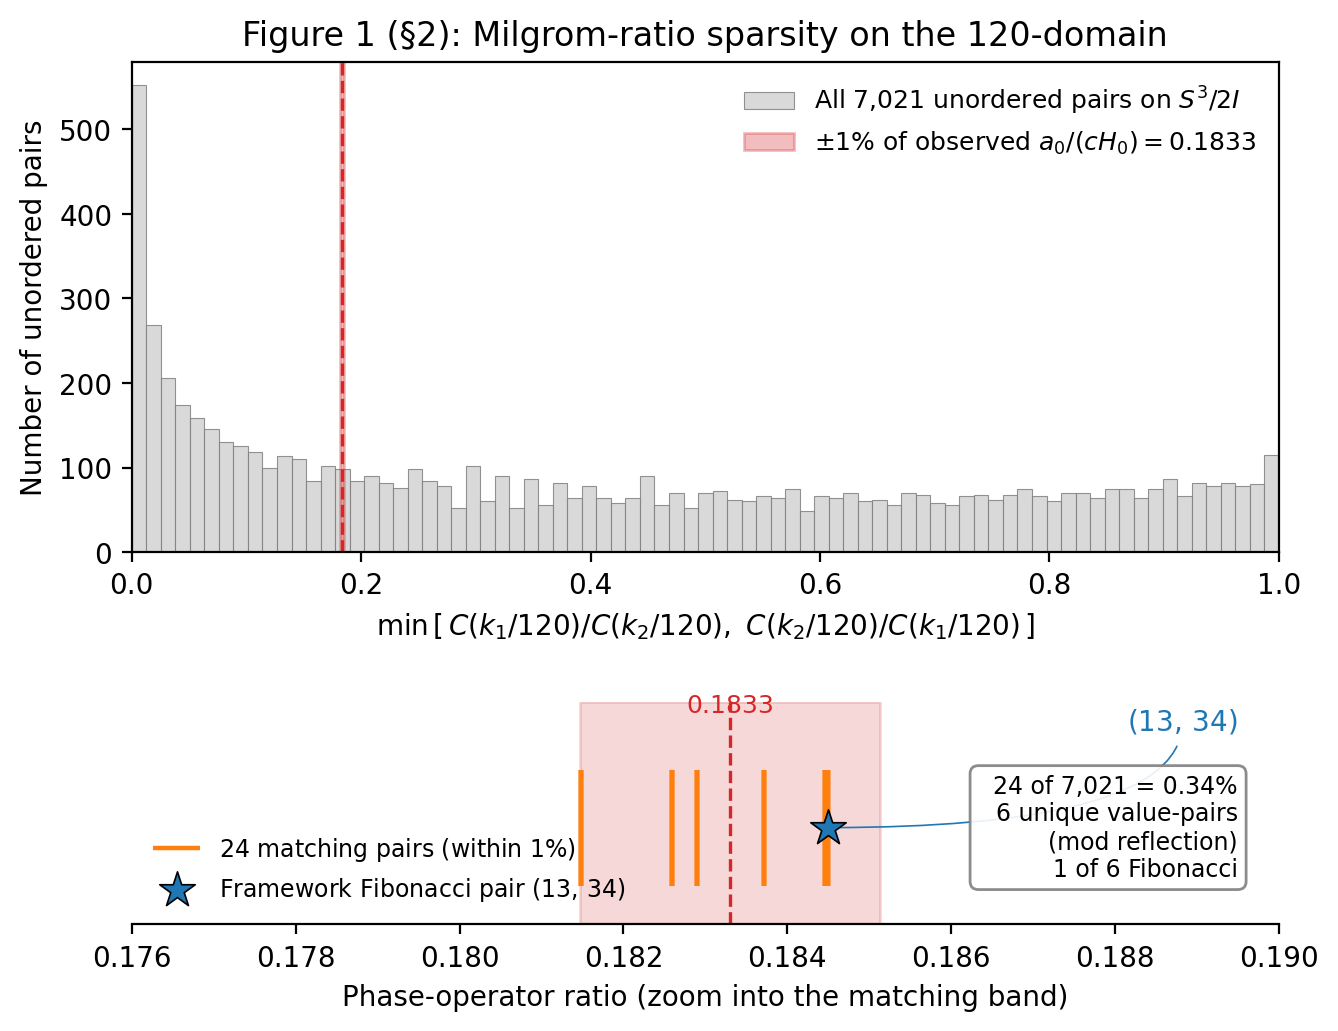
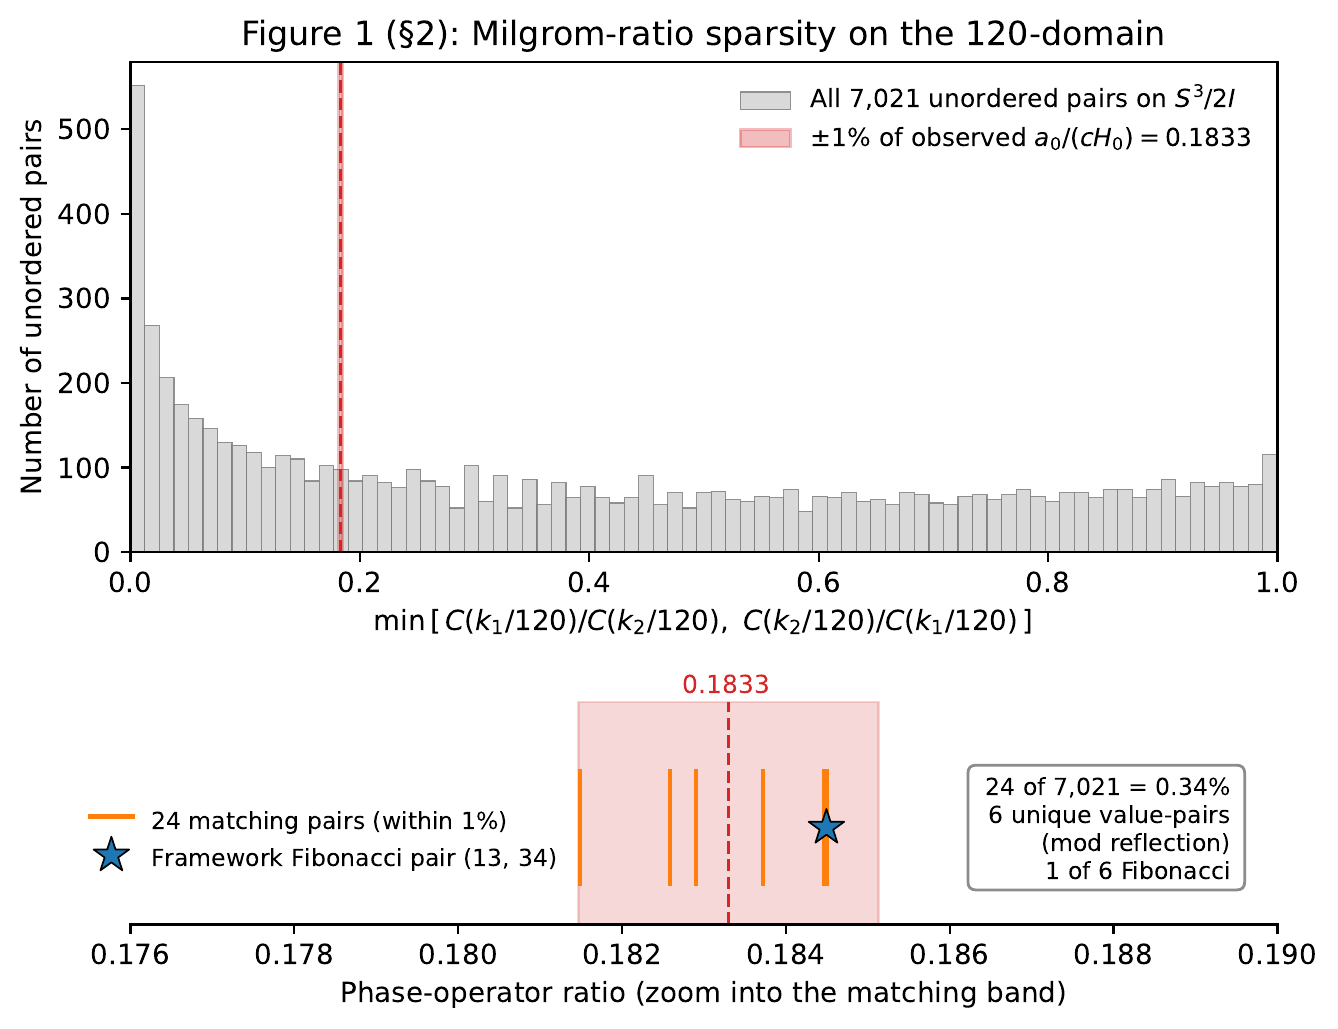
Swap Figure 1 to curated PDF; auto-generator preserved but not called
The user provided a manually-curated Figure 1 PDF (the (13, 34) tag
removed for layout cleanup, legend label retained). This is now the
canonical Figure 1 shipped in the repo.

  figures/figure1.pdf  -- curated PDF, replaces auto-generated version
  figures/figure1.png  -- 200 dpi render of the curated PDF via pdftoppm

scripts/make_figures.py:
  - figure1_sparsity() retained for reference and regeneration; the
    docstring now warns that calling it overwrites the curated PDF/PNG
  - main() drops Figure 1 from the build list so a default
    `python make_figures.py` run does not clobber the curated artifact
  - banner now reads "Figure 1 curated externally; skipped"; closing
    line reflects "auto-generated figures (2, 3, 4) pass self-checks"

scripts/README.md:
  - make_figures.py table row updated: "Generate Figures 2-4 from the
    analysis modules. Figure 1 is shipped as a curated PDF/PNG and
    not regenerated by default."

Figures 2-4 are unchanged; their auto-builders still run and pass
their in-script self-checks against paper-quoted values on every run.

diff --git a/scripts/make_figures.py b/scripts/make_figures.py
@@ -125,6 +125,14 @@ def _save(fig: plt.Figure, stem: str) -> Tuple[str, str]:
 def figure1_sparsity() -> Tuple[str, str]:
     """Figure 1 (§2): two-panel sparsity figure on the 120-domain.
 
+    NOTE: This auto-generator is kept for reference and regeneration but
+    is NOT called from main(). The shipped figures/figure1.{pdf,png} is
+    a curated artifact (the (13, 34) tag was removed for layout cleanup
+    while preserving the legend label and the rest of the figure
+    content). Calling this function will overwrite the curated PDF/PNG
+    with the auto version. Do that only when intentionally regenerating
+    from scratch.
+
     Top: histogram of all 7,021 unordered phase-operator ratios in [0, 1],
     with a vertical line at the observed Milgrom ratio 0.1833 and a
     shaded ±1% band marking the matching region.
@@ -491,8 +499,16 @@ def figure4_ubler_tension() -> Tuple[str, str]:
 def main() -> int:
     _ensure_figures_dir()
 
+    # Figure 1 (§2 sparsity) is curated externally and shipped as a
+    # static PDF/PNG in ../figures/figure1.{pdf,png}. The auto-generator
+    # `figure1_sparsity()` is preserved for reference / regeneration but
+    # is NOT called from main() so a default `python make_figures.py`
+    # run does not clobber the curated artifact. To regenerate the
+    # auto version, call `figure1_sparsity()` directly or pass --regen-1.
+    #
+    # Figures 2, 3, 4 are auto-generated and verified against paper
+    # values on every run.
     builders = [
-        ("Figure 1 (§2 sparsity)",                figure1_sparsity),
         ("Figure 2 (§3.3 + App B lensing)",       figure2_lensing_discriminator),
         ("Figure 3 (§3.5 five exponents)",        figure3_five_exponents),
         ("Figure 4 (§4.1 Übler tension)",         figure4_ubler_tension),
@@ -500,7 +516,7 @@ def main() -> int:
 
     print()
     print("=" * 70)
-    print(" Generating paper figures")
+    print(" Generating paper figures (Figure 1 curated externally; skipped)")
     print("=" * 70)
     print()
 
@@ -520,7 +536,8 @@ def main() -> int:
             return 1
 
     print()
-    print("All four figures generated and self-checks pass.")
+    print("Auto-generated figures (2, 3, 4) pass self-checks. Figure 1 ")
+    print("is shipped as a curated PDF/PNG and not regenerated by default.")
     print()
     return 0
 

diff --git a/scripts/README.md b/scripts/README.md
@@ -17,7 +17,7 @@ Python pipeline that reproduces every numerical claim in the paper. The lean PRD
 | `cmb_leakage.py` | ε bound from Planck first-peak amplitude precision | §4.3 |
 | `verify.py` | Single-command pass/fail harness across all modules | All |
 | `make_tables.py` | Generate Tables 1–8 + Table B.1 from the analysis modules | All |
-| `make_figures.py` | Generate the four paper figures from the analysis modules | §2, §3.3, §3.5, §4.1 |
+| `make_figures.py` | Generate Figures 2–4 from the analysis modules. Figure 1 is shipped as a curated PDF/PNG and not regenerated by default. | §3.3, §3.5, §4.1 |
 
 ## Coding standards
 
